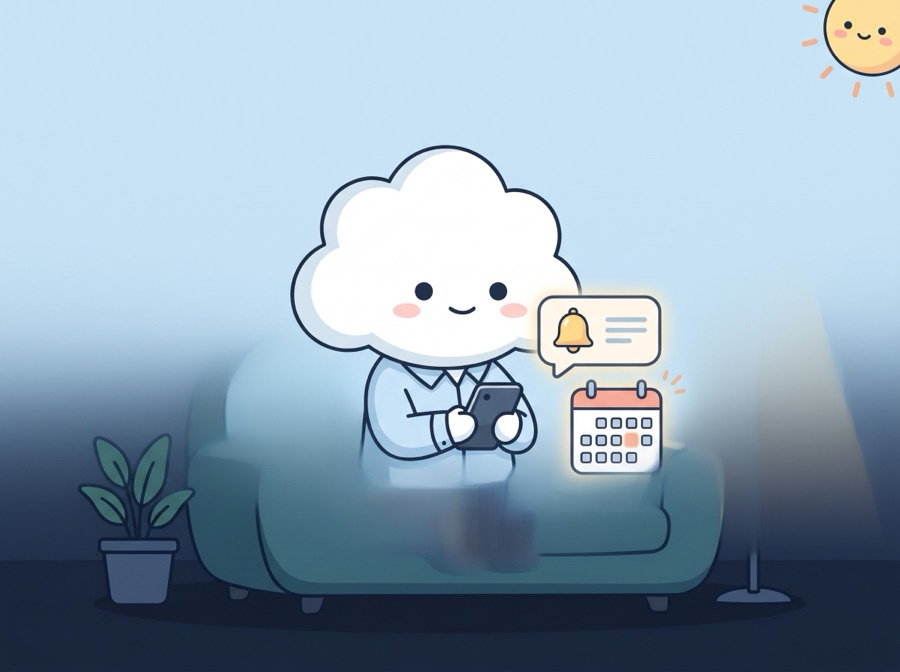
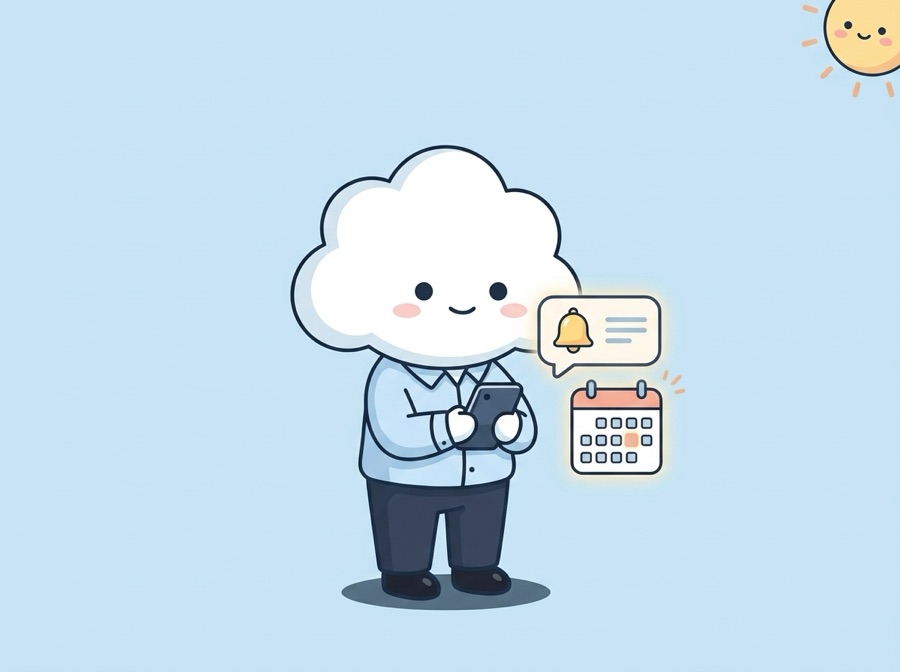
v3.4: updated last-screen picture

diff --git a/prototype/content.js b/prototype/content.js
@@ -101,4 +101,4 @@ var LOGO_SRC = 'assets/mindfull-logo.svg';
 var CHAR_IMG_ALT = {"cumulo": "Cumulo หัวเป็นก้อนเมฆสีเทาเข้ม ใส่สูทเทา เนคไทแดง ถือโทรศัพท์กับแล็ปท็อป มีสายฟ้าเล็กๆ เหนือหัว", "nimbo": "Nimbo หัวเป็นก้อนเมฆสีฟ้าหม่น หน้าง่วงๆ ใส่เสื้อคาร์ดิแกนกรมท่า กางร่มให้ต้นไม้ แต่หัวตัวเองโดนฝน", "strato": "Strato หัวเป็นเมฆสีขาวหมอก ใส่ฮู้ดสีเทาคลุมหัว ซุกมือในกระเป๋า หลับตาเคลิ้ม มีหมอกจางๆ ที่เท้า", "humi": "Humi หัวเป็นก้อนเมฆสีขาวฟู ยิ้มกว้าง ใส่สูทฟ้า เนคไทเขียว ถือแก้วกาแฟ มีดวงอาทิตย์ตัวจิ๋วเป็นเพื่อน"};
 
 /* Picture for the last screen (สรุปใจคุณวันนี้): continuing in the app with a reminder */
-var NEXT_IMG = {src:'assets/scenes/next-app.jpg', alt:'คนหัวเมฆนั่งบนโซฟาถือโทรศัพท์ มีการแจ้งเตือนกับปฏิทินลอยอยู่ข้างๆ ชวนกลับมาเช็กใจอีกครั้ง'};
+var NEXT_IMG = {src:'assets/scenes/next-app.jpg', alt:'คนหัวเมฆยืนยิ้มถือโทรศัพท์ มีการแจ้งเตือนกับปฏิทินลอยอยู่ข้างๆ ชวนกลับมาเช็กใจอีกครั้ง'};
